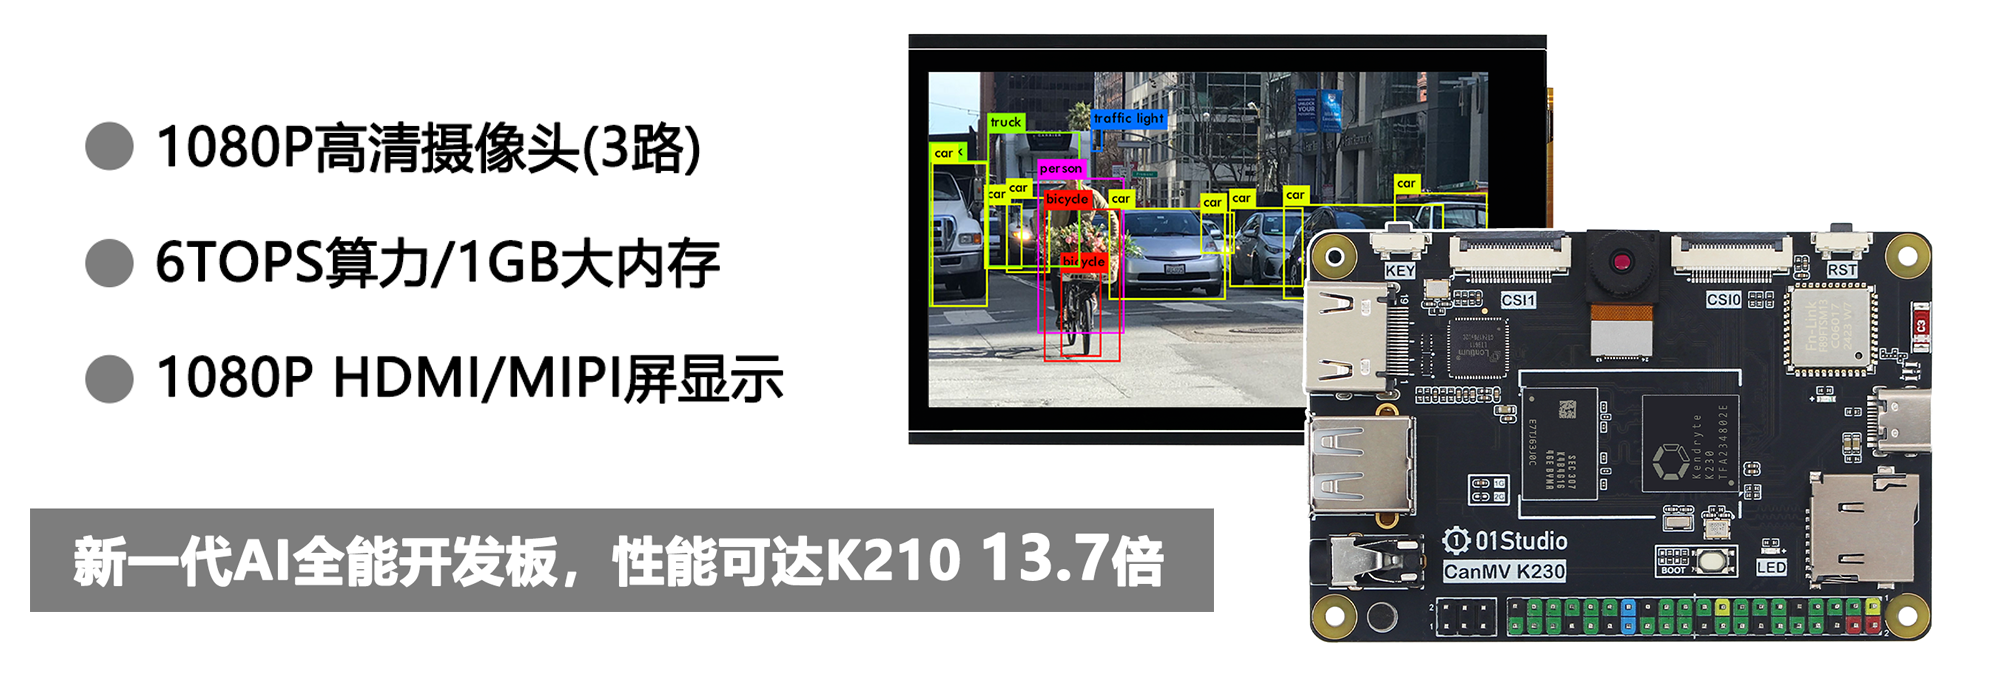
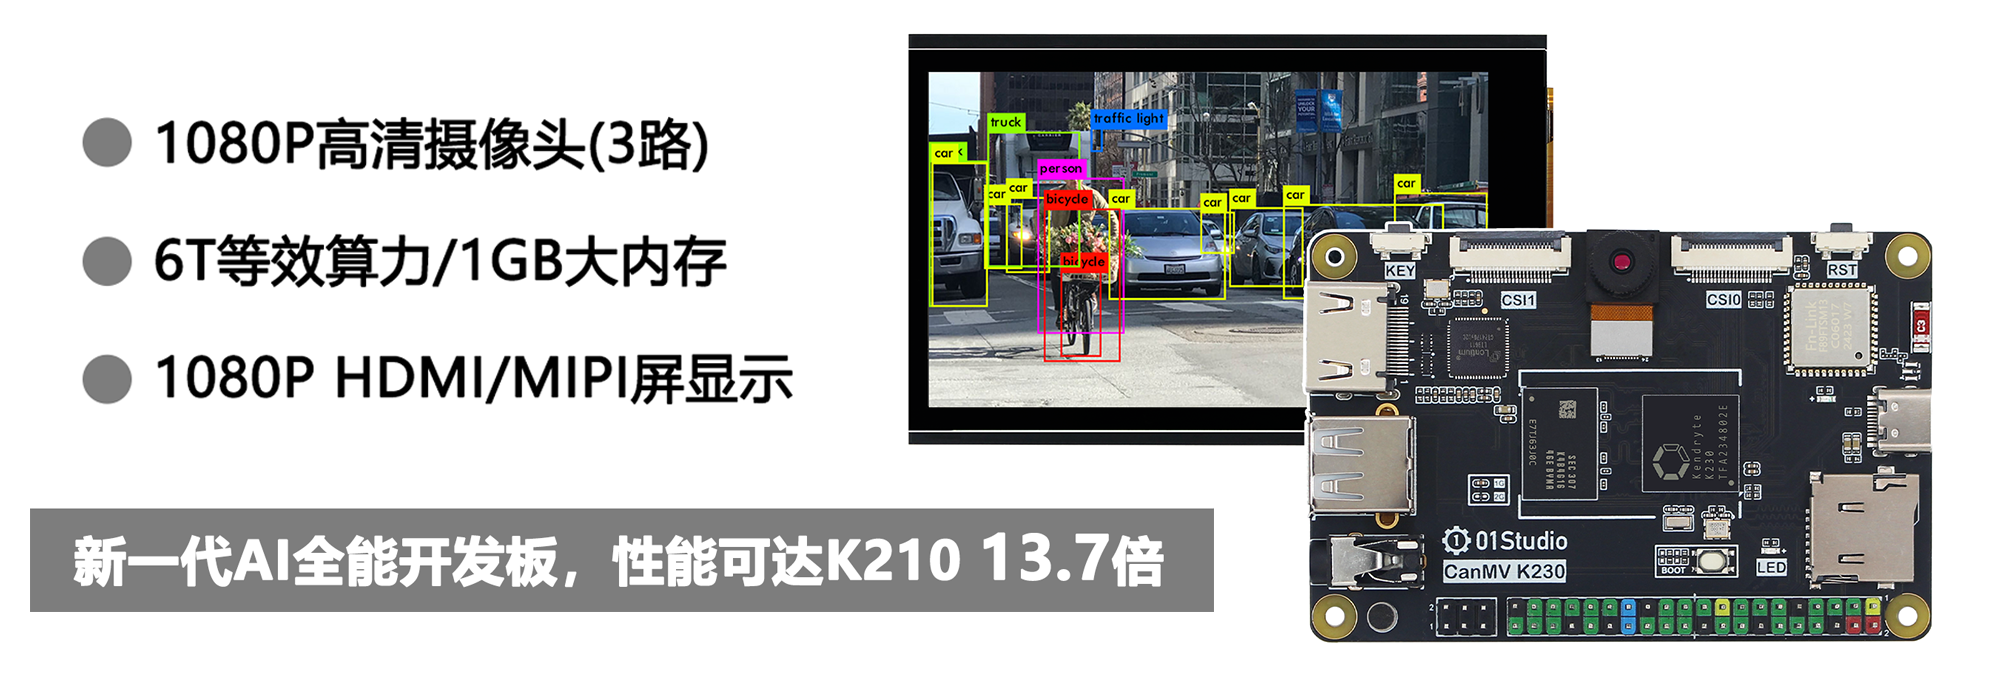
Fix typos

diff --git a/docusaurus.config.js b/docusaurus.config.js
@@ -29,7 +29,7 @@ const config = {
   // to replace "en" with "zh-Hans".
   i18n: {
     defaultLocale: 'zh',
-    locales: ['en','zh'],
+    locales: ['zh','en'],
   },
 
   markdown: {
@@ -97,10 +97,26 @@ const config = {
             label: '论坛',
             position: 'right',
           },
-          {
+          /*{
             href: 'https://item.taobao.com/item.htm?id=821397288809',
             label: '购买',
             position: 'right',
+          },*/
+          {
+            type: 'dropdown',
+            label: '购买',
+            position: 'right',
+            className: 'navbar_dorp_items',
+            items: [
+              {
+                label: '淘宝店铺',
+                href: 'https://item.taobao.com/item.htm?id=821397288809',
+              },
+              {
+                label: 'Aliexpress',
+                href: 'https://www.aliexpress.com/item/1005007573129445.html',
+              },
+            ],
           },
           //{to: '/blog', label: 'Blog', position: 'left'},
           /*{
@@ -139,7 +155,7 @@ const config = {
               },
               {
                 label: '论坛',
-                href: 'https://bbs.01studio.cc',
+                href: 'https://forum.01studio.cc',
               },
               {
                 label: 'GitHub',

diff --git a/docs/canmv_k230/machine_vision/camera.md b/docs/canmv_k230/machine_vision/camera.md
@@ -78,7 +78,7 @@ sensor.set_pixformat(pixformat, chn = CAM_CHN_ID_0)
 ```
 设置图像像素格式。
 - `pixformat`: 格式。
-    - `sensor.GRAYSCAL` : 灰度图像，每像素8位（1字节），处理速度快。
+    - `sensor.GRAYSCALE` : 灰度图像，每像素8位（1字节），处理速度快。
     - `sensor.RGB565` : 每像素为16位（2字节），5位用于红色，6位用于绿色，5位用于蓝色，处理速度比灰度图像要慢。
     - `sensor.RGB888` 
     - `sensor.RGBP888` 
@@ -127,8 +127,7 @@ sensor.snapshot()
 使用相机拍摄一张照片，并返回 image 对象。
 
 
-更多用法请阅读官方文档：<br></br>
-https://developer.canaan-creative.com/canmv/main/canmv/library/canmv/sensor.html
+更多用法请阅读: [CanMV K230官方文档](https://developer.canaan-creative.com/k230_canmv/main/zh/api/mpp/K230_CanMV_Sensor%E6%A8%A1%E5%9D%97API%E6%89%8B%E5%86%8C.html#)
 
 ## clock对象
 
@@ -280,3 +279,28 @@ finally:
 
 
 通过本实验，我们了解了摄像头sensor模块以及时间time模块的原理和应用，可以看到CanMV将摄像头功能封装成sensor模块，用户不必关注底层代码编可以轻松使用。
+
+## 多路摄像头接口使用
+
+01科技 CanMV K230除了CSI2接口标配的GC2093（60FPS）摄像头外，还可以通过CSI0、CSI1接口外接摄像头。外接摄像头目前支持型号:
+
+- OV5647（1080P 30FPS）。6cm/15cm/30cm 3款长度可选。 [**点击购买>>**](https://item.taobao.com/item.htm?id=833993249110)
+
+![camera](./img/camera/camera4.png)
+
+使用方法很简单，只需要在上面示例代码基础上在初始化时候配置`id`参数即可。
+
+# CSI0接口
+```python
+    ...
+    sensor = Sensor(id=0) #id=0表示使用CSI0接口上的摄像头
+    ...
+```
+# CSI1接口
+
+```python
+    ...
+    sensor = Sensor(id=1) #id=1表示使用CSI1接口上的摄像头
+    ...
+```
+

diff --git a/docs/canmv_k230/intro/canmv_k230.md b/docs/canmv_k230/intro/canmv_k230.md
@@ -27,7 +27,7 @@ CanMV开源项目由嘉楠科技（Canaan）官方创建和维护。是将MicroP
 |  产品参数 |
 |  :---:  | ---  |
 | K230主控  | ● CPU1: RISC-V , 1.6GHz, 支持RVV 1.0<br></br> ● CPU0: RISC-V , 800MHz |
-| 神经网络处理器  | KPU（6TOPS），支持INT8和INT16|
+| 神经网络处理器  | KPU（6TOPS等效算力），支持INT8和INT16|
 | 内存  | 1GBytes （LPDDR4） | 
 | 存储  | MicroSD（最大支持512G） |
 | 摄像头  | ● GC2093(标配) / OV5647<br></br> ● 支持3路输入（3 x 2 lane CSI） |
@@ -65,7 +65,7 @@ CanMV开源项目由嘉楠科技（Canaan）官方创建和维护。是将MicroP
 |  K230芯片参数 |
 |  :---:  | ---  |
 | CPU  | ● CPU1: RISC-V处理器 , 1.6GHz, 32KB I-cache, 32KB D-cache, 256KB L2 Cache, 128bit RVV 1.0扩展<br></br> ● CPU0: RISC-V处理器 , 800MHz, 32KB I-cache, 32KB D-cache, 128KB L2 Cache |
-| KPU  | 6TOP算力，支持INT8和INT16<br></br>典型网络性能：<br></br>Resnet50 ≥ 85fps @ INT8；Mobilenet_v2 ≥ 670fps @ INT8；YOLO V5s  ≥ 38fps @ INT8|
+| KPU  | 6TOPS等效算力，支持INT8和INT16<br></br>典型网络性能：<br></br>Resnet50 ≥ 85fps @ INT8；Mobilenet_v2 ≥ 670fps @ INT8；YOLO V5s  ≥ 38fps @ INT8|
 | DPU  | 3D结构光深度引擎，最大分辨率支持1920x1080 | 
 | VPU  | H.264和H.265视频编解码，最大支持4096x4096<br></br>编码器性能：4K@20fps<br></br>解码器性能：4K@40fps<br></br>JEPG编解码器：最大支持8K(8192x8192)分辨率 |
 | 图像输入  | 最大支持3路MIPI CSI输入：1x4 lane+1x2 lane 或 3x2 lane |

diff --git a/docs/canmv_k210/download.md b/docs/canmv_k210/download.md
@@ -4,22 +4,31 @@ sidebar_position: 3
 
 # 开发板资料下载
 
-CanMV K210在线教程配套软件、源代码、原理图、芯片手册等。
+## 下载方式
+
+### 百度网盘
 
 - 百度网盘链接：https://pan.baidu.com/s/1P-lju8EH-fd4Rfy67Ge-Gg
 - 提取码：**01KJ**
 
+### 海外地区下载
+
+- [点击下载](https://en.01studio.cc/micropython/CanMV-K210/CanMV-K210.html)
+
+
+## 资料介绍：
+
+CanMV K210在线教程配套软件、源代码、原理图、芯片手册等。
+
 ![download](./img/download/download1.png)
 
-**资料介绍如下：**
-
-## 开发工具
+### 开发工具
 
 开发软件、相关驱动。
 
 ![download](./img/download/download2.png)
 
-## 例程源码
+### 例程源码
 
 注意区分CanMV K210和CanMV K210 mini不同平台，代码有些少区别。
 
@@ -29,25 +38,25 @@ CanMV K210在线教程配套软件、源代码、原理图、芯片手册等。
 
 ![download](./img/download/download3.png)
 
-## 相关固件
+### 相关固件
 
 开发板固件，用于升级和重烧。
 
 ![download](./img/download/download4.png)
 
-## 原理图和功能图
+### 原理图和功能图
 
 开发板原理图和接口说明图片。
 
 ![download](./img/download/download5.png)
 
-## 芯片手册
+### 芯片手册
 
 主要IC手册。
 
 ![download](./img/download/download6.png)
 
-## 产品图片
+### 产品图片
 
 产品的一些拍摄图，纯粹欣赏用。
 

diff --git a/docs/canmv_k230/download.md b/docs/canmv_k230/download.md
@@ -4,40 +4,48 @@ sidebar_position: 3
 
 # 开发板资料下载
 
-CanMV K230在线教程配套软件、源代码、原理图、芯片手册等。
+## 下载方式
+
+### 百度网盘
 
 - 百度网盘链接：https://pan.baidu.com/s/1zVOi2lHbaQhlQEqK-7s-Nw?pwd=01KJ
 - 提取码：**01KJ**
 
+### 海外地区下载
+
+- [点击下载](https://en.01studio.cc/micropython/CanMV-K230/CanMV-K230.html)
+
+## 资料介绍：
+
+CanMV K230在线教程配套软件、源代码、原理图、芯片手册等。
+
 ![download](./img/download/download1.png)
 
-**资料介绍如下：**
-
-## 开发工具
+### 开发工具
 
 开发软件、相关驱动。
 
 ![download](./img/download/download2.png)
 
-## 例程源码
+### 例程源码
 
 本在线教程所有源代码。
 
 ![download](./img/download/download3.png)
 
-## 镜像
+### 镜像
 
 开发板镜像，烧录到SD卡插入开发板启动。
 
 ![download](./img/download/download4.png)
 
-## 原理图和功能图
+### 原理图和功能图
 
 开发板原理图和接口说明图片。
 
 ![download](./img/download/download5.png)
 
-## 产品图片
+### 产品图片
 
 产品的一些拍摄图，纯粹欣赏用。
 

diff --git a/docs/canmv_k230/machine_vision/display.md b/docs/canmv_k230/machine_vision/display.md
@@ -189,6 +189,15 @@ finally:
 
 ### 3.5寸mipi显示屏显示
 
+使用3.5寸mipi显示屏显示图像需要修改2个地方：
+
+将摄像头采集分辨率改成800x480以下：
+```python
+    #sensor.set_framesize(Sensor.FHD) #设置帧大小FHD(1920x1080)，缓冲区和HDMI用,默认通道0
+    sensor.set_framesize(width=800,height=480) #设置帧大小800x480,LCD专用,默认通道0
+    sensor.set_pixformat(Sensor.RGB565) #设置输出图像格式，默认通道0
+```
+
 将参考代码中的代码改成ST7701 :
 ```python
     #################################
@@ -201,7 +210,7 @@ finally:
 
 ```
 
-通过排线线连接01Studio 3.5寸mipi屏：
+通过排线连接01Studio 3.5寸mipi屏：
 ![display](./img/display/display4.png)
 
 运行代码，可以看到mipi屏上显示摄像头采集图像，最大支持800x480：

diff --git a/docs/canmv_k230/network/ethernet.md b/docs/canmv_k230/network/ethernet.md
@@ -14,7 +14,7 @@ sidebar_position: 4
 
 ## 实验讲解
 
-有线以太网需要借助一个USB转以太网设备，型号为：USB2.0 RTL8152B 免驱百兆网卡： [**点击购买>>**](https://01studio.taobao.com)
+有线以太网需要借助一个USB转以太网设备，型号为：USB2.0 RTL8152B 免驱百兆网卡： [**点击购买>>**](https://item.taobao.com/item.htm?id=822775353673)
 
 将USB转以太网卡USB端插入01Studio CanMV K230开发板，另一头插入网线连接到路由器。
 

diff --git a/docs/canmv_k230/machine_vision/ai_vision/body/falldown_detection.md b/docs/canmv_k230/machine_vision/ai_vision/body/falldown_detection.md
@@ -6,7 +6,7 @@ sidebar_position: 3
 
 ## 前言
 
-跌打检测主要根据人体姿态来判断，可以用于老人、小孩跌倒监护。本节我们来学习一下如何通过CanMV AI视觉框架和MicroPython编程快速实现人体关键点检测。
+跌倒检测主要根据人体姿态来判断，可以用于老人、小孩跌倒监护。本节我们来学习一下如何通过CanMV AI视觉框架和MicroPython编程快速实现人体关键点检测。
 
 ## 实验目的
 

diff --git a/docs/canmv_k230/basic_examples/led.md b/docs/canmv_k230/basic_examples/led.md
@@ -16,7 +16,7 @@ CanMV K230有一个跟GPIO连接可控制的LED灯。
 
 ![led](./img/led/led1.png)
 
-其连接到CanMV K230的IO引脚如下（可以看开发板原理图），LED蓝灯对应的GPIO为IO35，从电路可以看到当IO35为高电平时，蓝灯被点亮。
+其连接到CanMV K230的IO引脚如下（可以看开发板原理图），LED蓝灯对应的GPIO为IO52，从电路可以看到当IO52为高电平时，蓝灯被点亮。
 
 ![led](./img/led/led2.png)
 

diff --git a/docs/canmv_k230/update.md b/docs/canmv_k230/update.md
@@ -1,8 +1,15 @@
 ---
-sidebar_position: 11
+sidebar_position: 15
 ---
 
 # 更新说明
+
+## 2024-9-11
+
+- 增加 **机器视觉 -- 摄像头** ：
+
+    - [多路摄像头接口使用说明](./machine_vision/camera.md#多路摄像头接口使用) 
+
 
 ## 2024-8-8
 

diff --git a/docs/canmv_k230/basic_examples/adc.md b/docs/canmv_k230/basic_examples/adc.md
@@ -17,7 +17,7 @@ K230内部包含一个ADC硬件模块，有6个通道，采样分辨率为12bit(
 
 我们来看看ADC模块的构造函数和使用方法。
 
-## RTC对象
+## ADC对象
 
 ### 构造函数
 ```python
